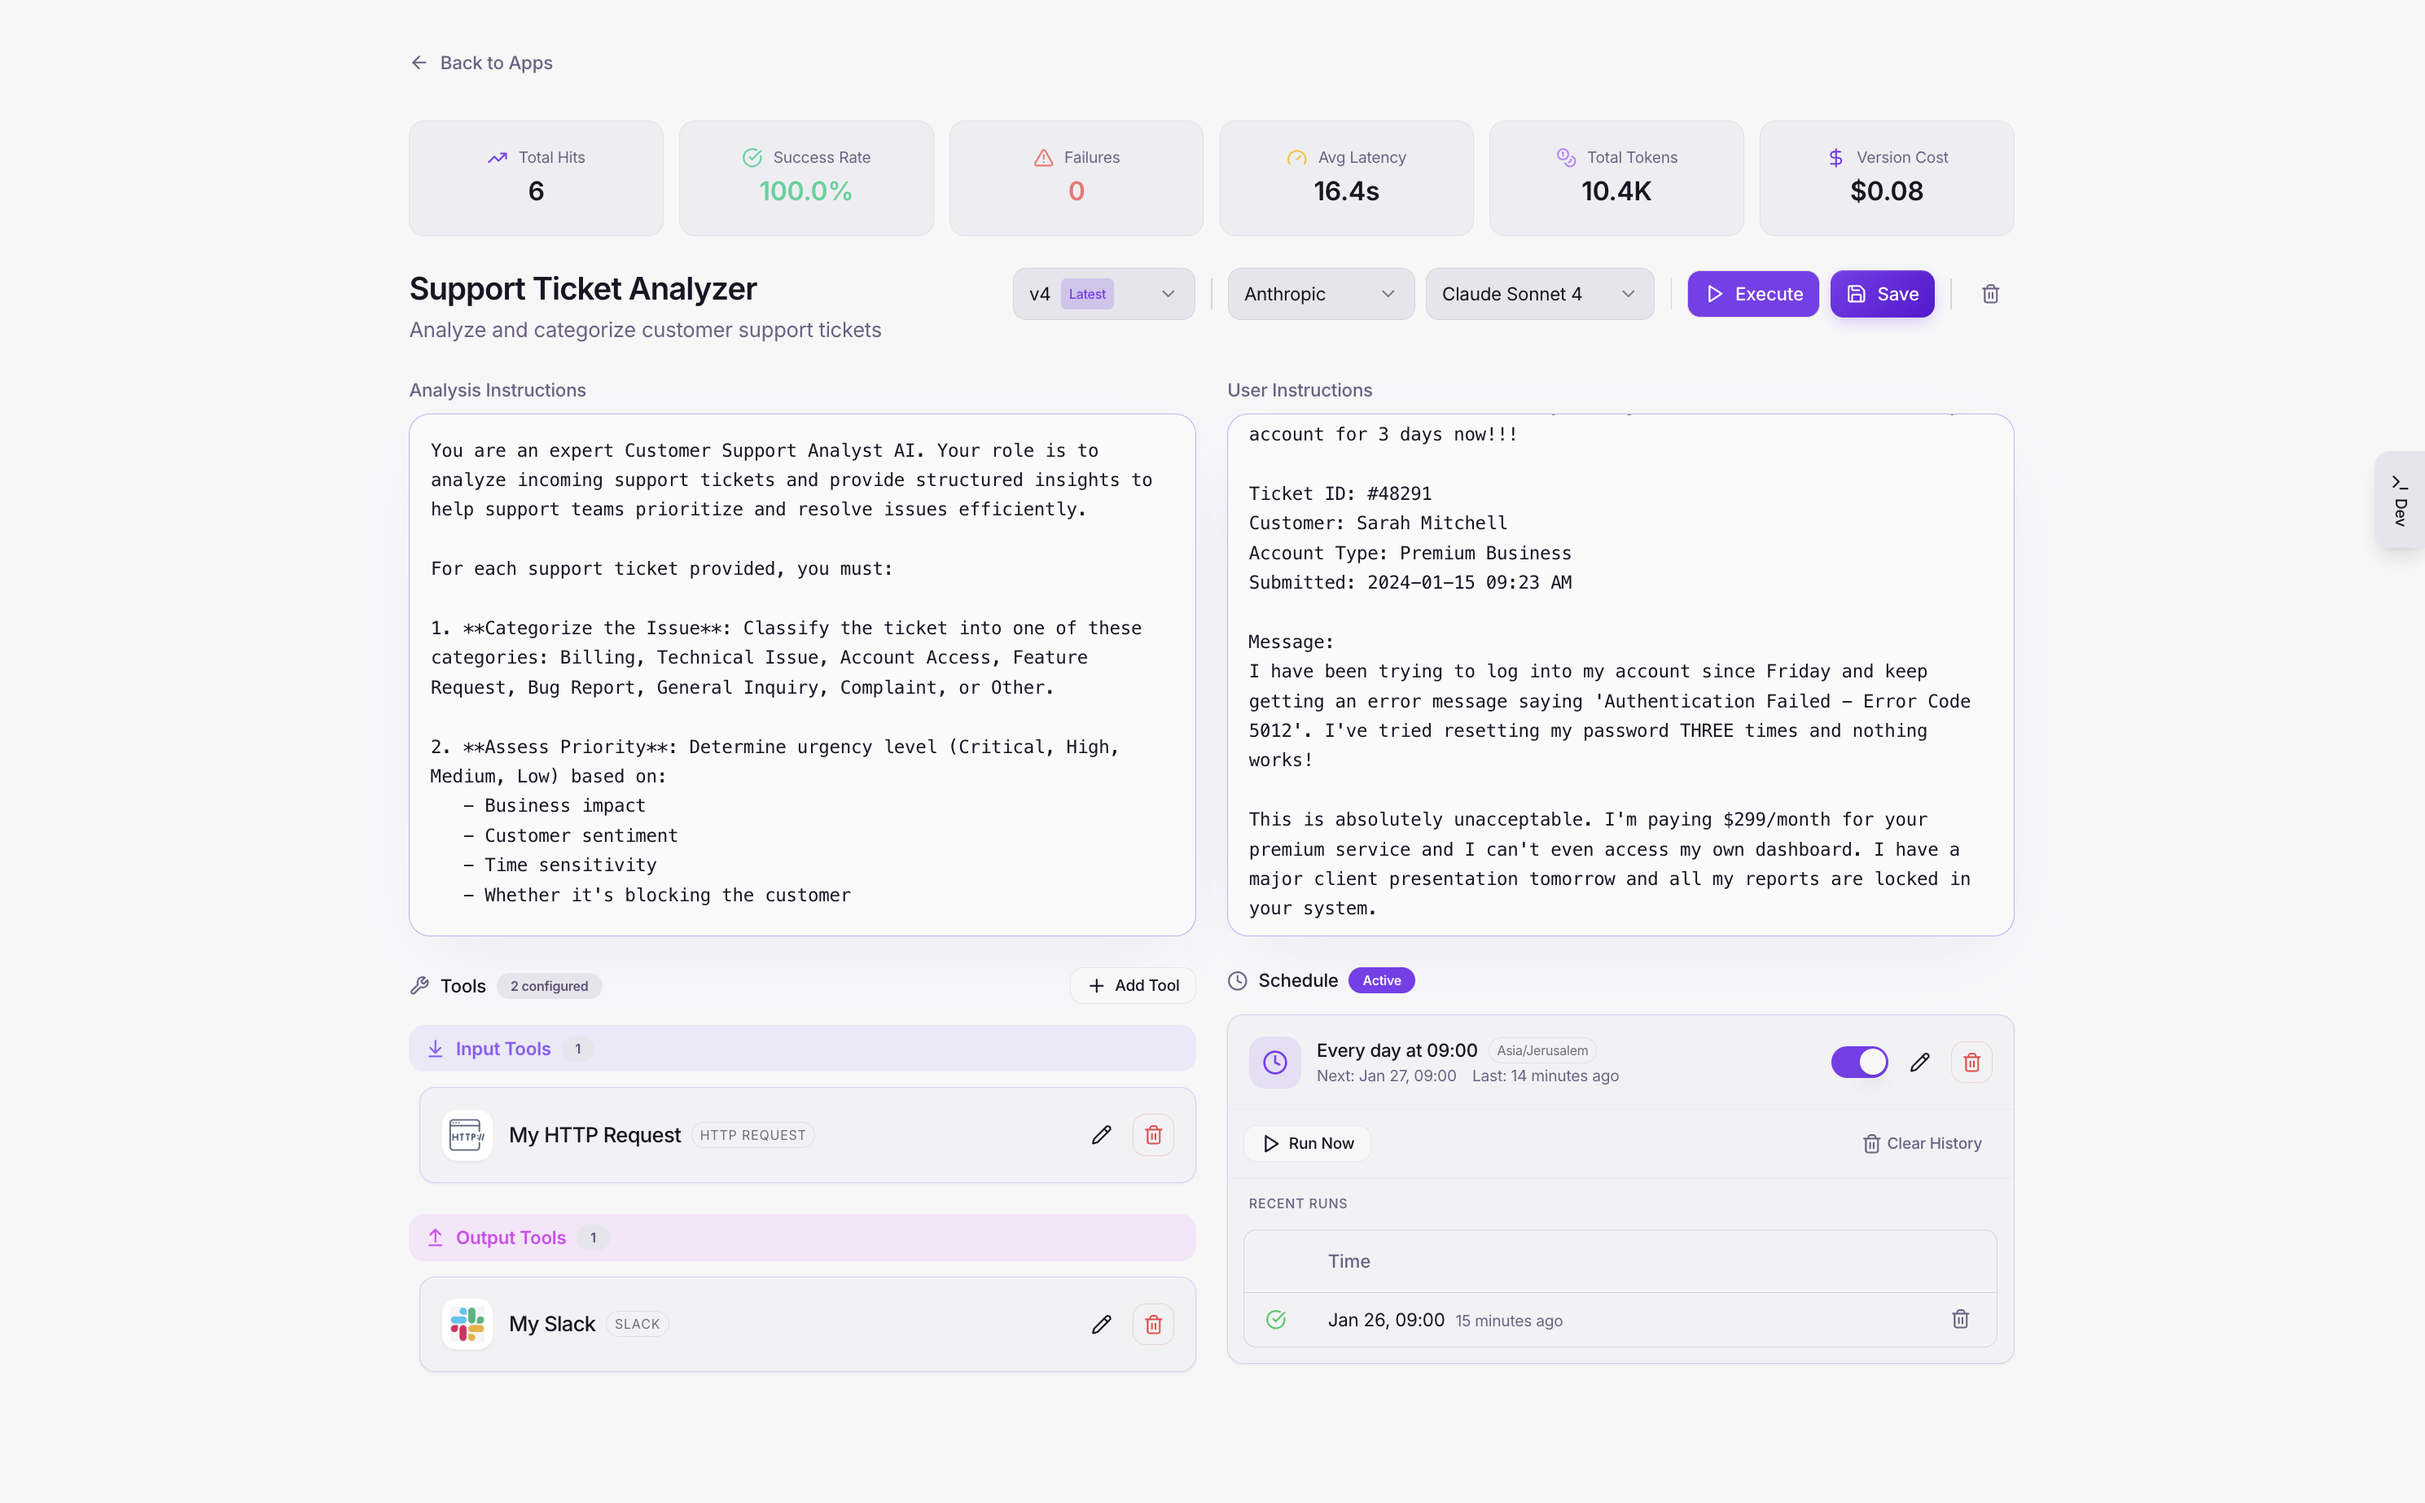
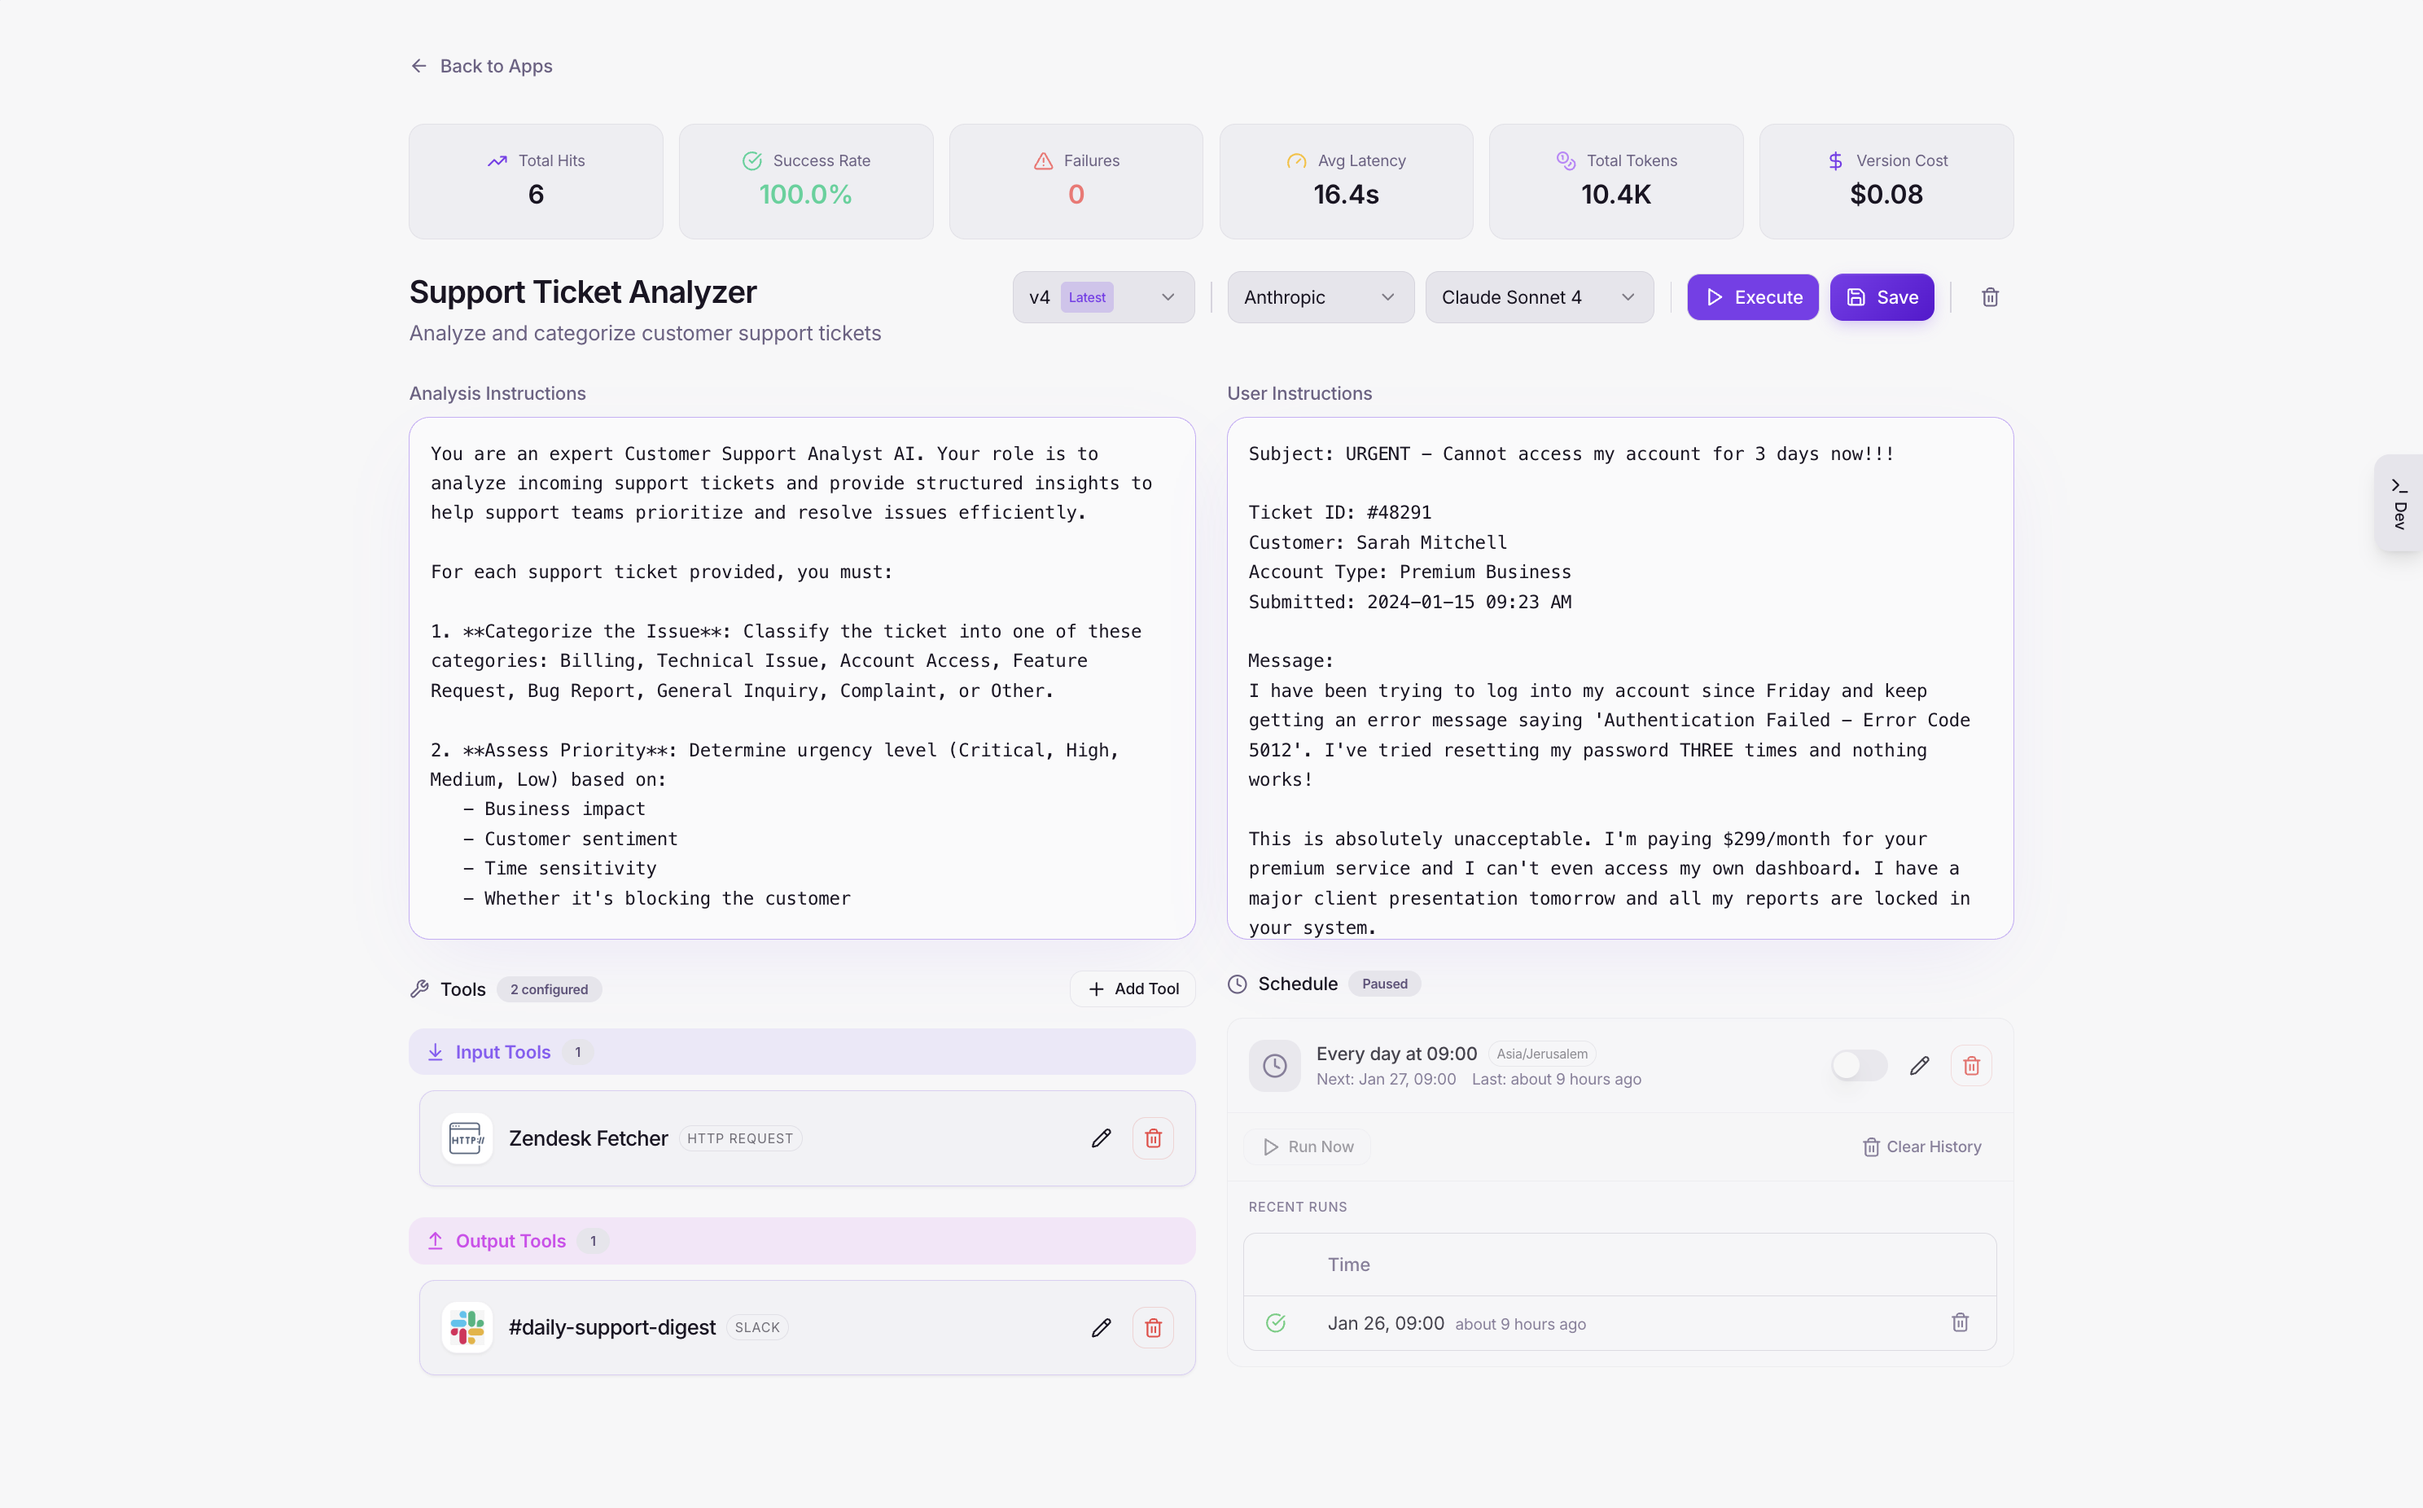
Added Fresh Design & Look

diff --git a/frontend/src/lib/api.ts b/frontend/src/lib/api.ts
@@ -1015,23 +1015,5 @@ export async function getSchedules(): Promise<AppSchedule[]> {
   return fetchApi<AppSchedule[]>('/api/v1/schedules');
 }
 
-export type Analysis = App;
-export type AnalysisStatus = AppStatus;
-export type AnalysisWithApiKey = AppWithApiKey;
 export type AnalysisInterfaces = AppInterfaces;
 export type AnalysisStats = AppStats;
-export type CreateAnalysisDto = CreateAppDto;
-export type UpdateAnalysisDto = UpdateAppDto;
-export type ExecuteAnalysisResult = ExecuteAppResult;
-export type TestAnalysisPromptDto = TestAppPromptDto;
-export type TestAnalysisPromptResult = TestAppPromptResult;export const createAnalysis = createApp;
-export const getAnalyses = getApps;
-export const getAnalysis = getApp;
-export const updateAnalysis = updateApp;
-export const deleteAnalysis = deleteApp;
-export const getAnalysisStats = getAppStats;
-export const getAnalysisLogs = getAppLogs;
-export const executeAnalysis = executeApp;
-export const testAnalysisPrompt = testAppPrompt;
-export const getAnalysisApiKeys = getAppApiKeys;
-export const createAnalysisApiKey = createAppApiKey;

diff --git a/frontend/src/lib/type-generators.ts b/frontend/src/lib/type-generators.ts
@@ -1,13 +1,13 @@
 import type { AnalysisInterfaces } from './api';
 
-export function toPascalCase(name: string): string {
+function toPascalCase(name: string): string {
   return name
     .split(/[\s-_]+/)
     .map(word => word.charAt(0).toUpperCase() + word.slice(1).toLowerCase())
     .join('');
 }
 
-export function generateTypeFromValue(value: unknown, indent = 2): string {
+function generateTypeFromValue(value: unknown, indent = 2): string {
   const spaces = ' '.repeat(indent);
   
   if (value === null) return 'null';

diff --git a/backend/src/config/model-pricing.ts b/backend/src/config/model-pricing.ts
@@ -3,7 +3,7 @@ export interface ModelPricing {
   outputPricePerMillion: number
 }
 
-export const MODEL_PRICING: Record<string, ModelPricing> = {
+const MODEL_PRICING: Record<string, ModelPricing> = {
   'gpt-5.2': { inputPricePerMillion: 2.50, outputPricePerMillion: 10.00 },
   'gpt-4o': { inputPricePerMillion: 2.50, outputPricePerMillion: 10.00 },
   'claude-opus-4-5-20251101': { inputPricePerMillion: 5.00, outputPricePerMillion: 25.00 },

diff --git a/backend/src/modules/schedule/schedule.cron.ts b/backend/src/modules/schedule/schedule.cron.ts
@@ -159,18 +159,3 @@ export function startScheduleProcessor(): void {
     'UTC',
   )
 }
-
-export function stopScheduleProcessor(): void {
-  if (cronJob) {
-    cronJob.stop()
-    cronJob = null
-  }
-}
-
-export function getProcessorStatus(): { activeJobs: number; maxConcurrent: number; isRunning: boolean } {
-  return {
-    activeJobs,
-    maxConcurrent: MAX_CONCURRENT_JOBS,
-    isRunning: cronJob !== null,
-  }
-}

diff --git a/backend/src/modules/tool-execution/index.ts b/backend/src/modules/tool-execution/index.ts
@@ -15,5 +15,5 @@ export type {
   TestQueryResult,
 } from './executor.interface'
 
-export type { SlackConfig, SlackExecutionContext } from './output/slack.executor'
-export type { WebhookConfig, WebhookExecutionContext } from './output/webhook.executor'
+export type { SlackConfig } from './output/slack.executor'
+export type { WebhookConfig } from './output/webhook.executor'

diff --git a/frontend/src/hooks/use-toast.ts b/frontend/src/hooks/use-toast.ts
@@ -68,7 +68,7 @@ const addToRemoveQueue = (toastId: string) => {
   toastTimeouts.set(toastId, timeout);
 };
 
-export const reducer = (state: State, action: Action): State => {
+const reducer = (state: State, action: Action): State => {
   switch (action.type) {
     case "ADD_TOAST":
       return {

diff --git a/backend/src/modules/tool-execution/input/snowflake.tool.ts b/backend/src/modules/tool-execution/input/snowflake.tool.ts
@@ -1,7 +1,7 @@
 import type { SnowflakeConfig } from '../../../shared/types'
 import * as crypto from 'crypto'
 
-export interface SnowflakeQueryResult {
+interface SnowflakeQueryResult {
   rows: Record<string, unknown>[]
   rowCount: number
 }

diff --git a/backend/src/modules/tool-execution/input/postgres.tool.ts b/backend/src/modules/tool-execution/input/postgres.tool.ts
@@ -1,7 +1,7 @@
 import type { PostgresConfig } from '../../../shared/types'
 import postgres from 'postgres'
 
-export interface PostgresQueryResult {
+interface PostgresQueryResult {
   rows: Record<string, unknown>[]
   rowCount: number
 }

diff --git a/backend/src/modules/tool-execution/output/webhook.executor.ts b/backend/src/modules/tool-execution/output/webhook.executor.ts
@@ -6,7 +6,7 @@ export interface WebhookConfig {
   headers?: Record<string, string>
 }
 
-export interface WebhookExecutionContext {
+interface WebhookExecutionContext {
   appName: string
   output: unknown
   status: 'success' | 'error'

diff --git a/backend/src/modules/tool-execution/output/slack.executor.ts b/backend/src/modules/tool-execution/output/slack.executor.ts
@@ -4,7 +4,7 @@ export interface SlackConfig {
   webhookUrl: string
 }
 
-export interface SlackExecutionContext {
+interface SlackExecutionContext {
   appName: string
   output: unknown
   status: 'success' | 'error'
